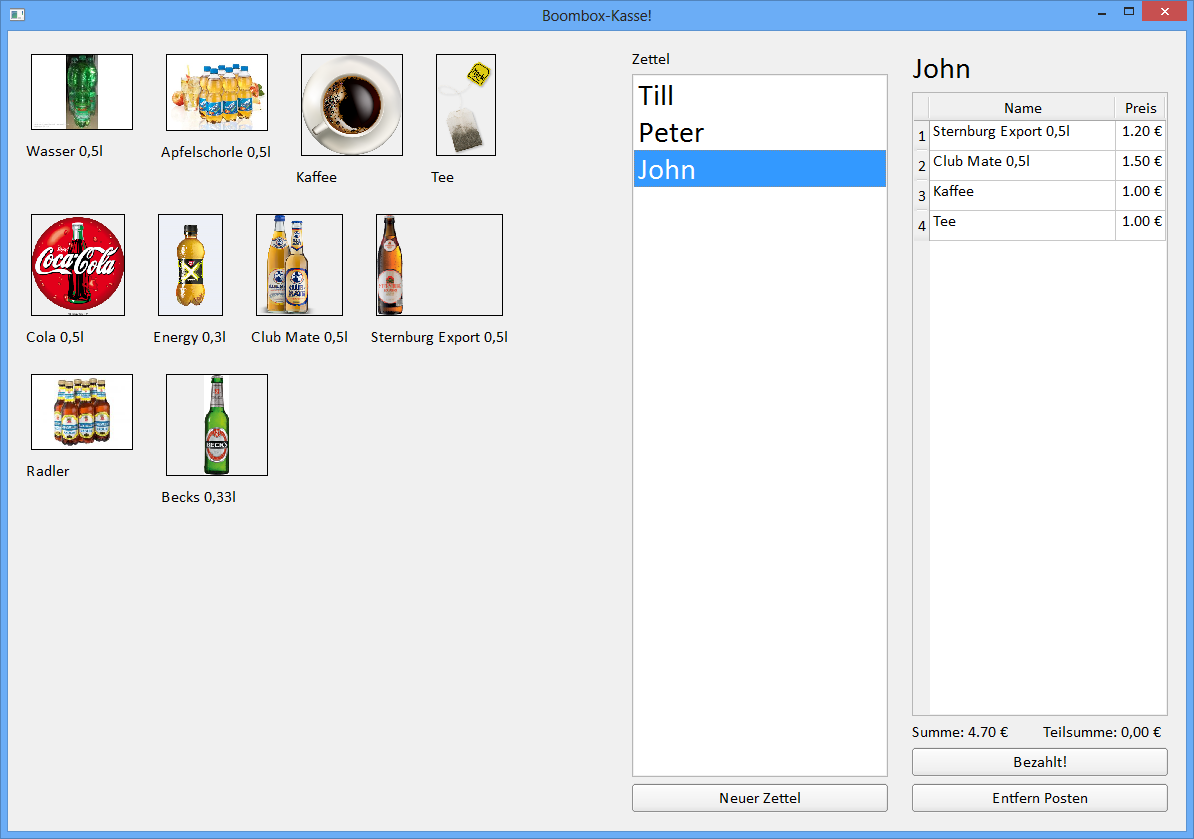
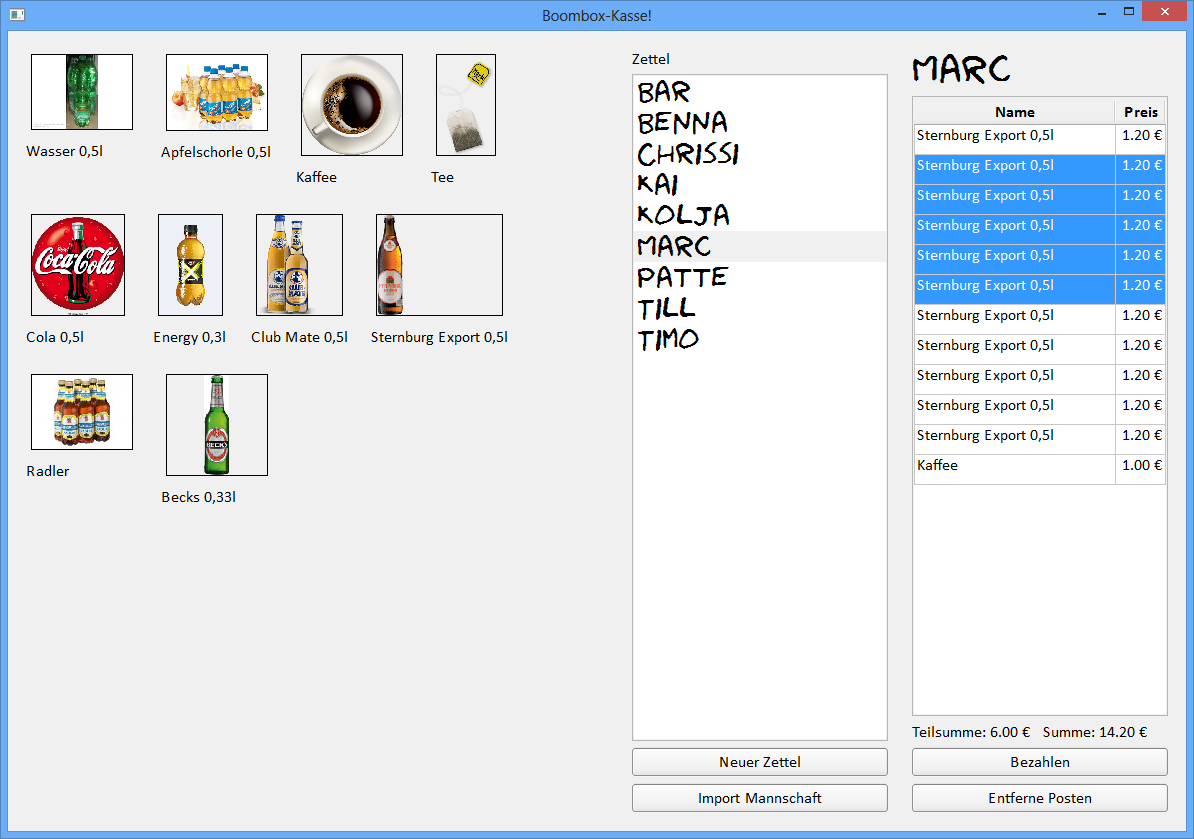
inventar now works, new screenshot

Changed region(s): [[0.5268, 0.062, 0.9916, 0.5578], [0.5268, 0.8677, 0.7437, 0.9607], [0.7747, 0.8677, 0.9606, 0.9607]]

diff --git a/boom_controller.py b/boom_controller.py
@@ -14,7 +14,7 @@ from boom_model import *
 inv = open('inventar.txt').readlines()
 list_it = []
 for line in inv:
-    list_it.append(Item(*line.split('|')))
+    list_it.append(Item(*line.rstrip().split('|')))
 
 
 class Controller(object):
